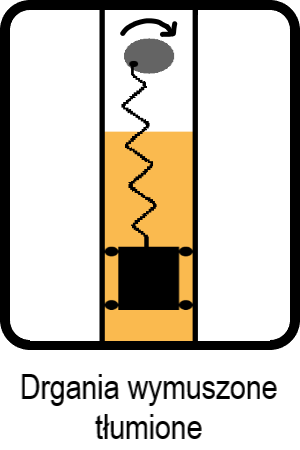
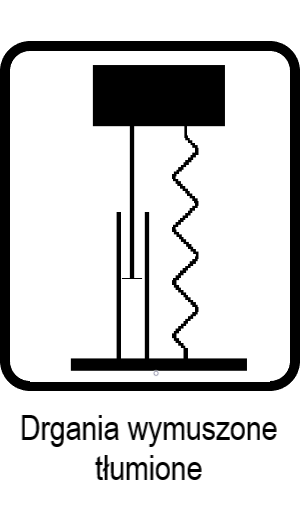
Version 0.003

diff --git a/code/level_2.py b/code/level_2.py
@@ -1,13 +1,14 @@
 import pygame
 from settings import *
 from spring import Spring
-from wheel import Wheel
 from side_menu import SideMenu
 from button import Button
 from slider import Slider
 from graph import Graph
 from vibrations import forced_vibrations
 from dynamic_block import DynamicBlock
+from block import Block
+from silencer import Silencer
 
 
 class Level_2:
@@ -29,11 +30,25 @@ class Level_2:
 
         self.setup()
 
+        self.silencer.rotate()
+        self.silencer_2.rotate()
+        self.silencer.scale()
+        self.silencer_2.scale()
 
+        self.spring.rect.top = self.dynamic_block.rect.bottom
+
+
+        self.spring.stretch(False)
+
+
+        self.silencer_2.rect.top = self.dynamic_block.rect.bottom
 
     def setup(self):
 
         self.menu_button = Button((50, 50), self.controls, MENU_BUTTON, MENU_BUTTON)
+
+        self.graph = Button((700, 500), self.controls, GRAPH, GRAPH)
+
         self.side_menu = SideMenu(
             (SCREEN_WIDTH - SIDE_MENU_WIDTH / 2, SCREEN_HEIGHT / 2), self.controls
         )
@@ -58,22 +73,24 @@ class Level_2:
             1,
         )
 
-        self.radius_slider = Slider(
+
+
+        self.damp_slider = Slider(
             SLIDER_POSITIONS[2],
             self.controls,
-            f"{RADIUS}: ",
-            0.1,
-            0.2,
-            0.15,
+            f"{SUPPRESION_LEVEL} (h): ",
+            0,
+            20,
+            10,
         )
 
         self.angular_velocity_slider = Slider(
             SLIDER_POSITIONS[3],
             self.controls,
-            f"{ANGULAR_VELOCITY}: ",
+            f"{FREQUENCY} (p): ",
             0,
             50,
-            0,
+            25,
         )
 
         self.elasticity_level_slider = Slider(
@@ -88,31 +105,44 @@ class Level_2:
             SLIDER_POSITIONS[5],
             self.controls,
             f"{MASS}: ",
-            0.1,
-            0.5,
-            0.25,
+            1,
+            5,
+            3,
         )
 
-        self.wheel = Wheel(
-            (((SCREEN_WIDTH - SIDE_MENU_WIDTH) / 2), 100),
+
+
+        self.block = Block(
+            ((SCREEN_WIDTH - SIDE_MENU_WIDTH) / 3, 680),
             self.all_sprites,
-            WHEEL,
         )
 
-
-        self.block = DynamicBlock(
-            ((SCREEN_WIDTH - SIDE_MENU_WIDTH) / 2, SCREEN_HEIGHT / 2.5),
+        self.dynamic_block = DynamicBlock(
+            ((SCREEN_WIDTH - SIDE_MENU_WIDTH) / 3, SCREEN_HEIGHT / 3),
             self.all_sprites,
             (150, 100),
         )
 
         self.spring = Spring(
-            (((SCREEN_WIDTH - SIDE_MENU_WIDTH) / 2) + 30, 700),
-            self.block,
+            (((SCREEN_WIDTH - SIDE_MENU_WIDTH) / 3) + 30, 680),
+            self.dynamic_block,
             self.all_sprites,
         )
 
-        self.graph = Graph(self.block)
+        self.silencer = Silencer(
+            (((SCREEN_WIDTH - SIDE_MENU_WIDTH) / 3) - 30,430),
+            self.dynamic_block,
+            self.all_sprites,
+            SILENCER_1,
+        )
+        self.silencer_2 = Silencer(
+            (((SCREEN_WIDTH - SIDE_MENU_WIDTH) / 3) - 30, SCREEN_HEIGHT / 2.5 + 50),
+            self.dynamic_block,
+            self.all_sprites,
+            SILENCER_2,
+        )
+
+        self.graph = Graph(self.dynamic_block)
 
         self.sliders.add(self.time_speed_slider)
         # self.connector = Connector(
@@ -124,7 +154,7 @@ class Level_2:
         self.sliders.add(self.mass_slider)
         self.sliders.add(self.angular_velocity_slider)
         self.sliders.add(self.elasticity_level_slider)
-        self.sliders.add(self.radius_slider)
+        self.sliders.add(self.damp_slider)
 
     def input(self):
         keys = pygame.key.get_pressed()
@@ -139,6 +169,16 @@ class Level_2:
             self.graph.show_graph(self.time)
 
     def text_blit(self, fps):
+        p = self.angular_velocity_slider.k
+        h = self.damp_slider.k
+        m = self.mass_slider.k
+        k = self.elasticity_level_slider.k
+        parameters = self.font.render(
+            f"p/w:{round(forced_vibrations(m,k,h,p,self.time)[1],2)}",
+            True,
+            ("black"),
+        )
+        self.display_surface.blit(parameters, (1010, 225))
         fps_text = self.font.render(f"{fps}", True, ("black"))
         time_text = self.font.render(f"{TIME}: {round(self.time,2)}", True, ("black"))
         if self.show_fps == True:
@@ -159,11 +199,15 @@ class Level_2:
         self.controls.update()
         self.input()
 
+        
+
         if self.menu_button.is_playing == False:
             self.menu = True
             self.menu_button.is_playing = True
 
 
+        p = self.angular_velocity_slider.k
+        h = self.damp_slider.k
         m = self.mass_slider.k
         k = self.elasticity_level_slider.k
 
@@ -177,11 +221,15 @@ class Level_2:
         if self.start_button.is_playing == False:
             # self.graph.take_points(self.time)
             self.time += 0.01 * time_speed
-            self.spring.stretch(False)
             self.graph.take_points(self.time)
+            self.dynamic_block.move_2(forced_vibrations(m,k,h,p,self.time)[0])
 
+        
+        self.silencer_2.rect.top = self.dynamic_block.rect.bottom
+        self.spring.stretch(False)
         self.display_surface.fill("white")
         self.all_sprites.draw(self.display_surface)
+
 
         self.controls.draw(self.display_surface)
 

diff --git a/code/vibrations.py b/code/vibrations.py
@@ -29,13 +29,21 @@ def damped_vibrations_max(k, m, n):
     return [b, bk]
 
 
-def forced_vibrations(m, w, r, k, t):
-    b = 0.1
-    y = (
-        (m * (w**2) * r) / np.sqrt(((k - m * (w) ** 2) ** 2) + (b * w) ** 2)
-    ) * np.cos(w * t)
-    return y
+# def forced_vibrations(m, w, r, k, t):
+#     b = 0.1
+#     y = (
+#         (m * (w**2) * r) / np.sqrt(((k - m * (w) ** 2) ** 2) + (b * w) ** 2)
+#     ) * np.cos(w * t)
+#     return y
 
+
+def forced_vibrations(m, k, h, p, t):
+    a = 0.5
+    w = np.sqrt(k / m)
+    y = a*  np.sqrt((1+4*((p**2)/(w**2))*((h**2)/(w**2)))/((1-((p**2)/(w**2)))**2 +4*(((h**2)/(w**2))*((p**2)/(w**2)))))*np.sin(p*t)
+    #y = (a * np.sin(p*t)) / np.sqrt(((k - m * (w) ** 2) ** 2) + (h * w) ** 2)
+
+    return y, p/w
 
 def dynamic_dumping(m1,k1,m2, k2, t):
 

diff --git a/code/settings.py b/code/settings.py
@@ -28,6 +28,9 @@ DAMPED_VIBRATIONS_IMAGE = "graphics/damped_vibrations.png"
 FORCED_VIBRATIONS_IMAGE = "graphics/forced_vibrations.png"
 DYNAMIC_DAMPER_IMAGE = "graphics/dynamic_damper.png"
 
+GRAPH = "graphics/graph.png"
+
+
 # Screen scale attributes
 A = 0.007017543859649123
 B = -3.052631578947368
@@ -39,12 +42,13 @@ D = 150 - C * 150
 TIME = "Czas"
 START_POSITION = "Pozycja początkowa"
 SPEED = "Prędkość"
-SUPPRESION_LEVEL = "Tłumienie (c)"
+SUPPRESION_LEVEL = "Tłumienie"
 ELASTICITY_COEFFICIENT = "Wsp. sprężystości"
 MASS = "Masa"
 ANGULAR_VELOCITY = "Prędkość kątowa"
 RADIUS = "Promień"
 OPTIMAL_ELASCITY = "Optymalny wsp. spr."
+FREQUENCY = "Częstość wymuszenia"
 
 
 # sliders

diff --git a/code/spring.py b/code/spring.py
@@ -29,8 +29,7 @@ class Spring(pygame.sprite.Sprite):
             self.position = self.object.rect.top - self.rect.top
         else:
             self.rect.bottom = self.pos.y
-            self.position = self.rect.bottom - self.object.rect.bottom
-            print(self.position)
+            self.position = self.rect.bottom - self.object.rect.bottom +5
         try:
             self.animate_image = pygame.transform.scale(
                 self.original_image, (self.image.get_width(), self.position)

diff --git a/code/silencer.py b/code/silencer.py
@@ -22,3 +22,12 @@ class Silencer(pygame.sprite.Sprite):
 
     def move(self):
         self.rect.bottom = self.circle.rect.top
+
+    def rotate(self):
+
+        self.rotate_image = pygame.transform.rotate(self.original_image, 180)
+        self.image = self.rotate_image.copy()
+
+    def scale(self):
+        self.scale_image = pygame.transform.scale(self.image,(self.image.get_width(), 250))
+        self.image = self.scale_image.copy()

diff --git a/code/dynamic_block.py b/code/dynamic_block.py
@@ -20,3 +20,11 @@ class DynamicBlock(pygame.sprite.Sprite):
         self.pos.y = y
 
         self.rect.bottom = int((self.pos.y + 1) * ((680 - 100) / (1 + 1)) + 100)
+
+    def move_2(self, y):
+        self.pos.y = y
+
+        try:
+            self.rect.bottom = int((self.pos.y + 5) * ((500 - 0) / (5 + 5)) + 0)
+        except:
+            print("Nieskończoność")

diff --git a/code/block.py b/code/block.py
@@ -7,7 +7,7 @@ class Block(pygame.sprite.Sprite):
         super().__init__(group)
 
         # Create an image surface with a transparent background
-        self.image = pygame.Surface((6, 720), pygame.SRCALPHA)
+        self.image = pygame.Surface((200, 20), pygame.SRCALPHA)
         self.image.fill("black")
 
         # Set the position of the sprite

diff --git a/code/level.py b/code/level.py
@@ -57,7 +57,7 @@ class Level:
         self.suppression_level_slider = Slider(
             SLIDER_POSITIONS[3],
             self.controls,
-            f"{SUPPRESION_LEVEL}: ",
+            f"{SUPPRESION_LEVEL} (c): ",
             0,
             10,
             5,
